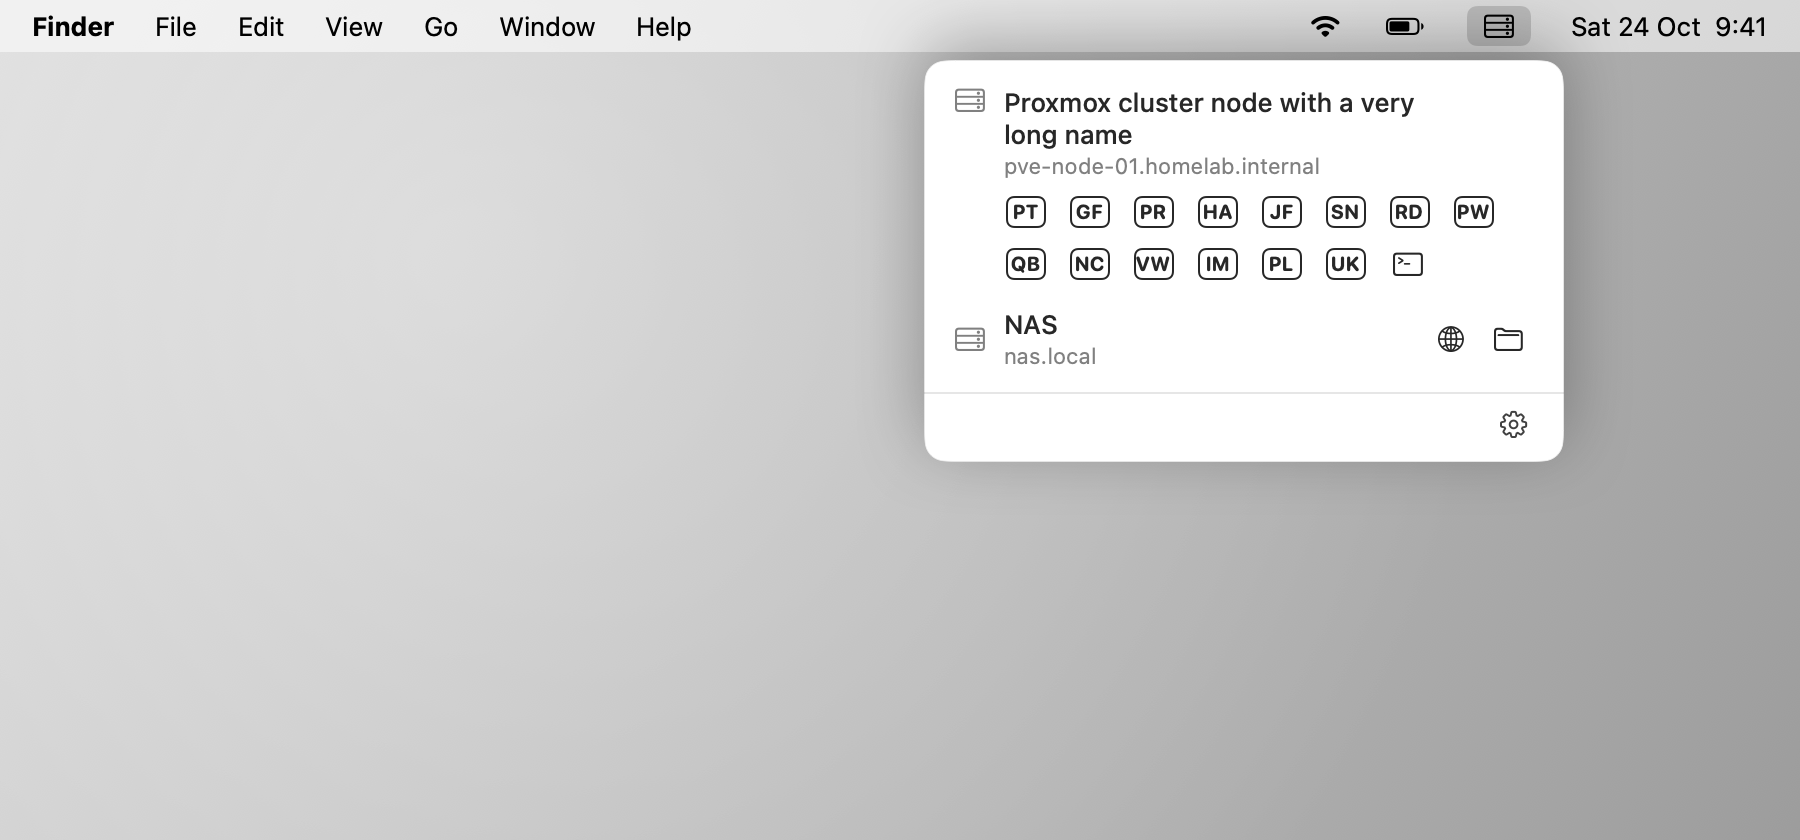
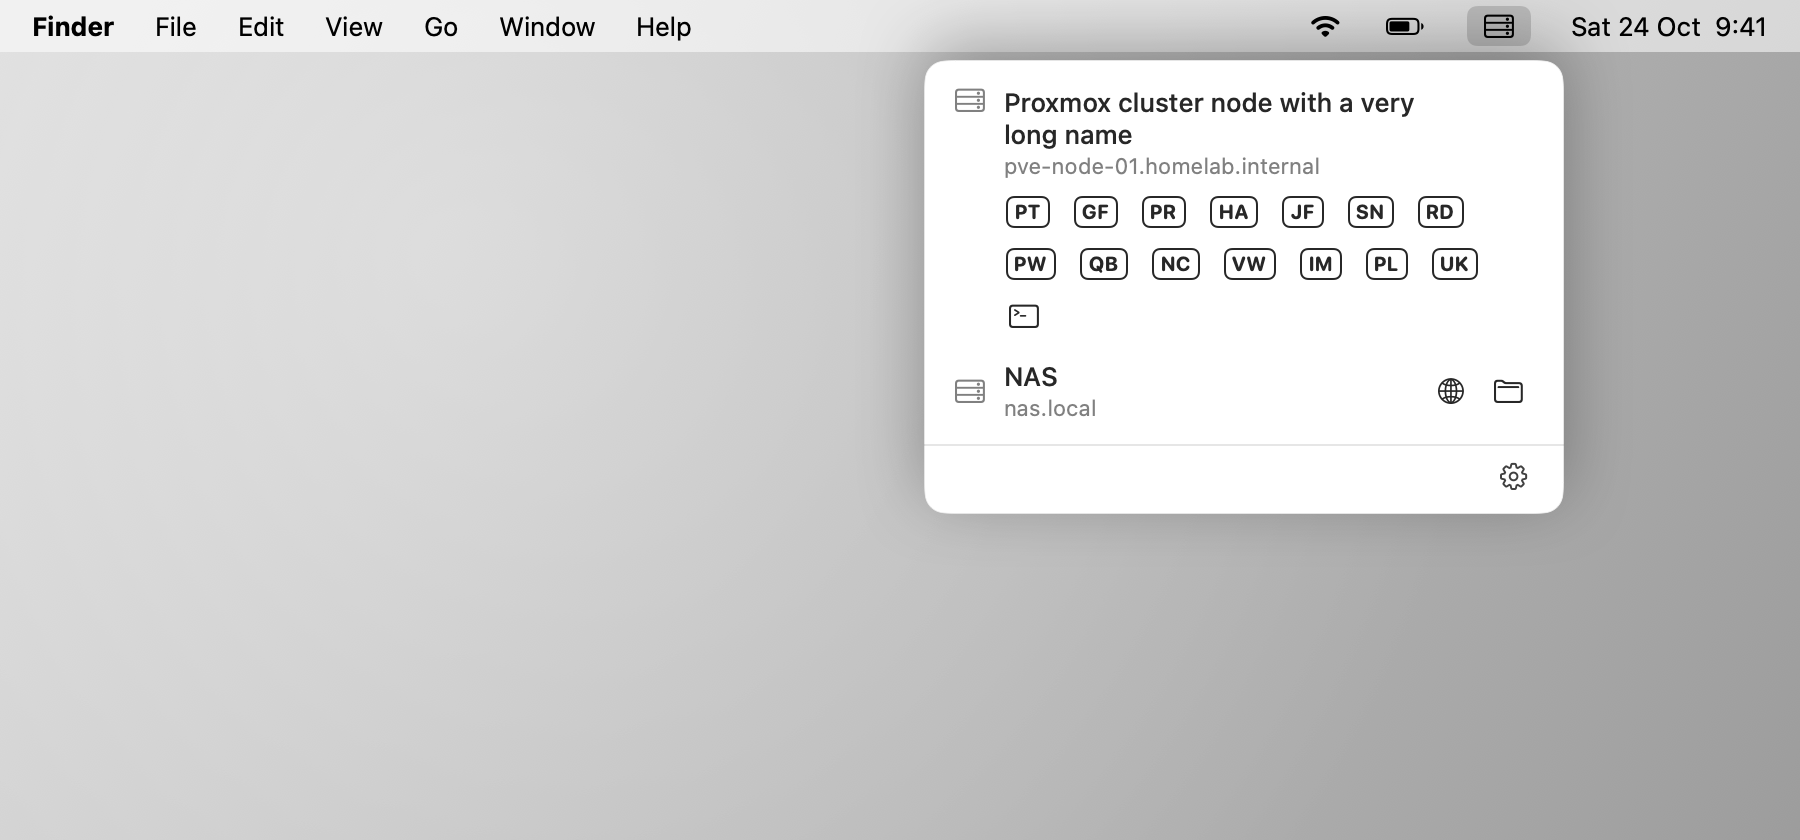
Badges size to their text at one font size
- Width is measured from the rendered letters plus 4pt each side, so wide letters (W, V, M) never touch the outline
- Every badge uses the same 10pt font regardless of length

diff --git a/Sources/Lanyard/MenuContentView.swift b/Sources/Lanyard/MenuContentView.swift
@@ -242,14 +242,27 @@ struct ServiceGlyph: View {
 struct LetterBadge: View {
     let text: String
 
+    // One size for every badge; at 10pt capitals land vertically centred with no
+    // offset, measured from rendered output.
+    static let fontSize: CGFloat = 10
+
+    /// Fits the actual letters (W is far wider than I) with at least 4pt either side,
+    /// in whole points so the outline stays on pixel boundaries.
+    static func width(for text: String, fontSize: CGFloat = fontSize) -> CGFloat {
+        var font = NSFont.systemFont(ofSize: fontSize, weight: .bold)
+        if let rounded = font.fontDescriptor.withDesign(.rounded) {
+            font = NSFont(descriptor: rounded, size: fontSize) ?? font
+        }
+        let textWidth = (text as NSString).size(withAttributes: [.font: font]).width
+        return max(16, ceil(textWidth) + 8)
+    }
+
     var body: some View {
-        // Sizes chosen by measuring rendered margins: at 10pt (1–2 letters) and 8.5pt
-        // (3 letters) capitals land centred with no offset. Whole-point frame and
-        // outline keep every edge on a pixel, so it stays sharp at 1x.
         Text(text)
-            .font(.system(size: text.count >= 3 ? 8.5 : 10, weight: .bold, design: .rounded))
+            .font(.system(size: Self.fontSize, weight: .bold, design: .rounded))
             .lineLimit(1)
-            .frame(width: CGFloat(12 + 4 * max(text.count, 1)), height: 16)
+            .fixedSize()
+            .frame(width: Self.width(for: text), height: 16)
             .overlay(RoundedRectangle(cornerRadius: 4).strokeBorder(lineWidth: 1))
     }
 }

diff --git a/Tests/LanyardTests/SnapshotTests.swift b/Tests/LanyardTests/SnapshotTests.swift
@@ -79,14 +79,15 @@ final class SnapshotTests: XCTestCase {
     func testServiceButtonHoverPadding() {
         let server = Server(id: 1, name: "Box", host: "box.lan", icon: nil, services: [])
         let row = HStack(spacing: 2) {
-            ForEach([Service(id: 1, kind: .ssh), Service(id: 2, kind: .web, badge: "G"),
-                     Service(id: 3, kind: .web, badge: "GF"), Service(id: 4, kind: .web, badge: "DIR")]) { service in
+            ForEach([Service(id: 1, kind: .ssh), Service(id: 2, kind: .web, badge: "I"), Service(id: 3, kind: .web, badge: "W"),
+                     Service(id: 4, kind: .web, badge: "GF"), Service(id: 5, kind: .web, badge: "PW"), Service(id: 6, kind: .web, badge: "VW"),
+                     Service(id: 7, kind: .web, badge: "DIR"), Service(id: 8, kind: .web, badge: "WWW")]) { service in
                 ServiceButton(service: service, server: server, forceHover: true)
             }
         }
         .padding(8)
         .background(Color(nsColor: .windowBackgroundColor))
-        assertSnapshot(row, named: "service-buttons-hover", width: 170, height: 40)
+        assertSnapshot(row, named: "service-buttons-hover", width: 300, height: 40)
     }
 
     func testMenuPerServerDisplay() {
